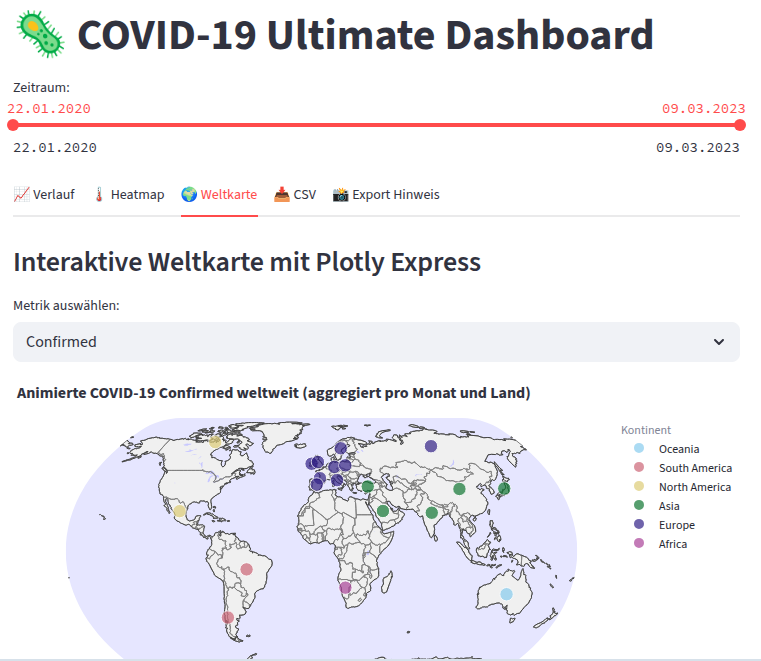
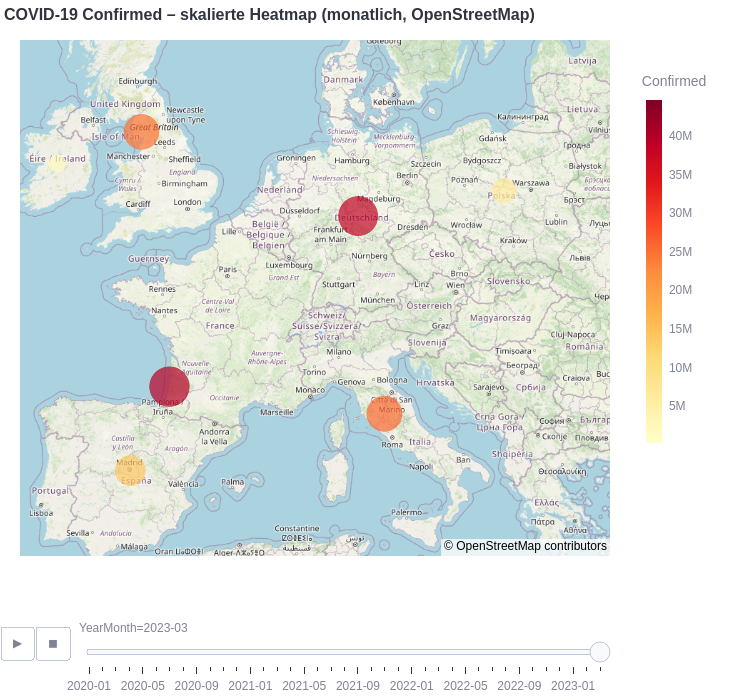
update heatmap

diff --git a/covid_dashboard.py b/covid_dashboard.py
@@ -74,8 +74,6 @@ NE_SHAPEFILE_PATH = "ne_10m_admin_0_countries.shp"  # Pfad anpassen
 # Lokale Shapefile laden
 world = gpd.read_file(NE_SHAPEFILE_PATH)
 
-print(world.columns)
-
 country_col = None
 for col in ["ADMIN"]:
     if col in world.columns:
@@ -344,7 +342,7 @@ with tab2:
 
 # Weltkarte
 with tab3:
-    st.subheader("Interaktive Weltkarte mit Plotly Express")
+    st.subheader("Heatmap-ähnliche Weltkarte mit metriksensitiver Punktgröße")
 
     selected_metric = st.selectbox(
         "Metrik auswählen:",
@@ -359,12 +357,10 @@ with tab3:
     anim_df = anim_df[
         (anim_df["Date"] >= pd.Timestamp(date_range[0])) &
         (anim_df["Date"] <= pd.Timestamp(date_range[1]))
-        ]
+    ]
 
     anim_df["YearMonth"] = anim_df["Date"].dt.to_period("M").dt.to_timestamp()
 
-    # Bereit mit NE-Koordinaten, also keine zusätzliche Koordinatenquelle nötig
-    # Aggregation je nach Metrik
     if selected_metric == "New Confirmed":
         aggregated_df = (
             anim_df
@@ -378,12 +374,16 @@ with tab3:
             .agg({selected_metric: "max"})
         )
 
+    aggregated_df = aggregated_df.dropna(subset=["Lat", "Long"])
+
+    # Farbpalette pro Kontinent
     unique_cats = aggregated_df["Continent"].unique()
     palette = px.colors.qualitative.Safe
     if len(unique_cats) > len(palette):
         palette = (palette * ((len(unique_cats) // len(palette)) + 1))[:len(unique_cats)]
     color_map = dict(zip(unique_cats, palette))
 
+    # Punktgröße skalieren
     min_radius = 3
     max_radius = 30
     max_val = aggregated_df[selected_metric].max()
@@ -402,46 +402,34 @@ with tab3:
         "size_scaled": False
     }
 
-    fig_anim = px.scatter_geo(
+    fig = px.scatter_map(
         aggregated_df,
         lat="Lat",
         lon="Long",
         size="size_scaled",
-        color="Continent",
+        color=selected_metric,  # Farbverlauf basierend auf der Metrik
         hover_name="Country",
         hover_data=hover_data,
         animation_frame=aggregated_df["YearMonth"].dt.strftime('%Y-%m'),
-        projection="natural earth",
-        title=f"Animierte COVID-19 {selected_metric} weltweit (aggregiert pro Monat und Land)",
+        zoom=1,
+        height=700,
+        title=f"COVID-19 {selected_metric} – skalierte Heatmap (monatlich, OpenStreetMap)",
         size_max=max_radius,
-        template="plotly_white",
-        color_discrete_map=color_map,
+        map_style="open-street-map",
+        color_continuous_scale="YlOrRd",  # Optional: Farbschema für metrische Intensität
     )
 
-    fig_anim.update_layout(
+    fig.update_layout(
         margin=dict(l=0, r=0, t=40, b=0),
-        legend_title_text="Kontinent",
-        geo=dict(
-            showland=True,
-            landcolor="rgb(240,240,240)",
-            oceancolor="rgb(230,230,255)",
-            showocean=True,
-            lakecolor="rgb(200,200,255)",
-            showcountries=True,
-            countrycolor="gray",
-            showframe=False,
-            projection_type="natural earth",
-            resolution=110
-        ),
-        dragmode="zoom"
+        coloraxis_colorbar=dict(title=selected_metric),
+        legend_title_text=None
     )
 
-    # Animation Geschwindigkeit erhöhen
-    if fig_anim.layout.updatemenus:
-        fig_anim.layout.updatemenus[0].buttons[0].args[1]['frame']['duration'] = 700
-        fig_anim.layout.updatemenus[0].buttons[1].args[1]['frame']['duration'] = 0
+    if fig.layout.updatemenus:
+        fig.layout.updatemenus[0].buttons[0].args[1]['frame']['duration'] = 700
+        fig.layout.updatemenus[0].buttons[1].args[1]['frame']['duration'] = 0
 
-    st.plotly_chart(fig_anim, use_container_width=True)
+    st.plotly_chart(fig, use_container_width=True, config={"scrollZoom": True})
 
 # CSV Download
 with tab4:
